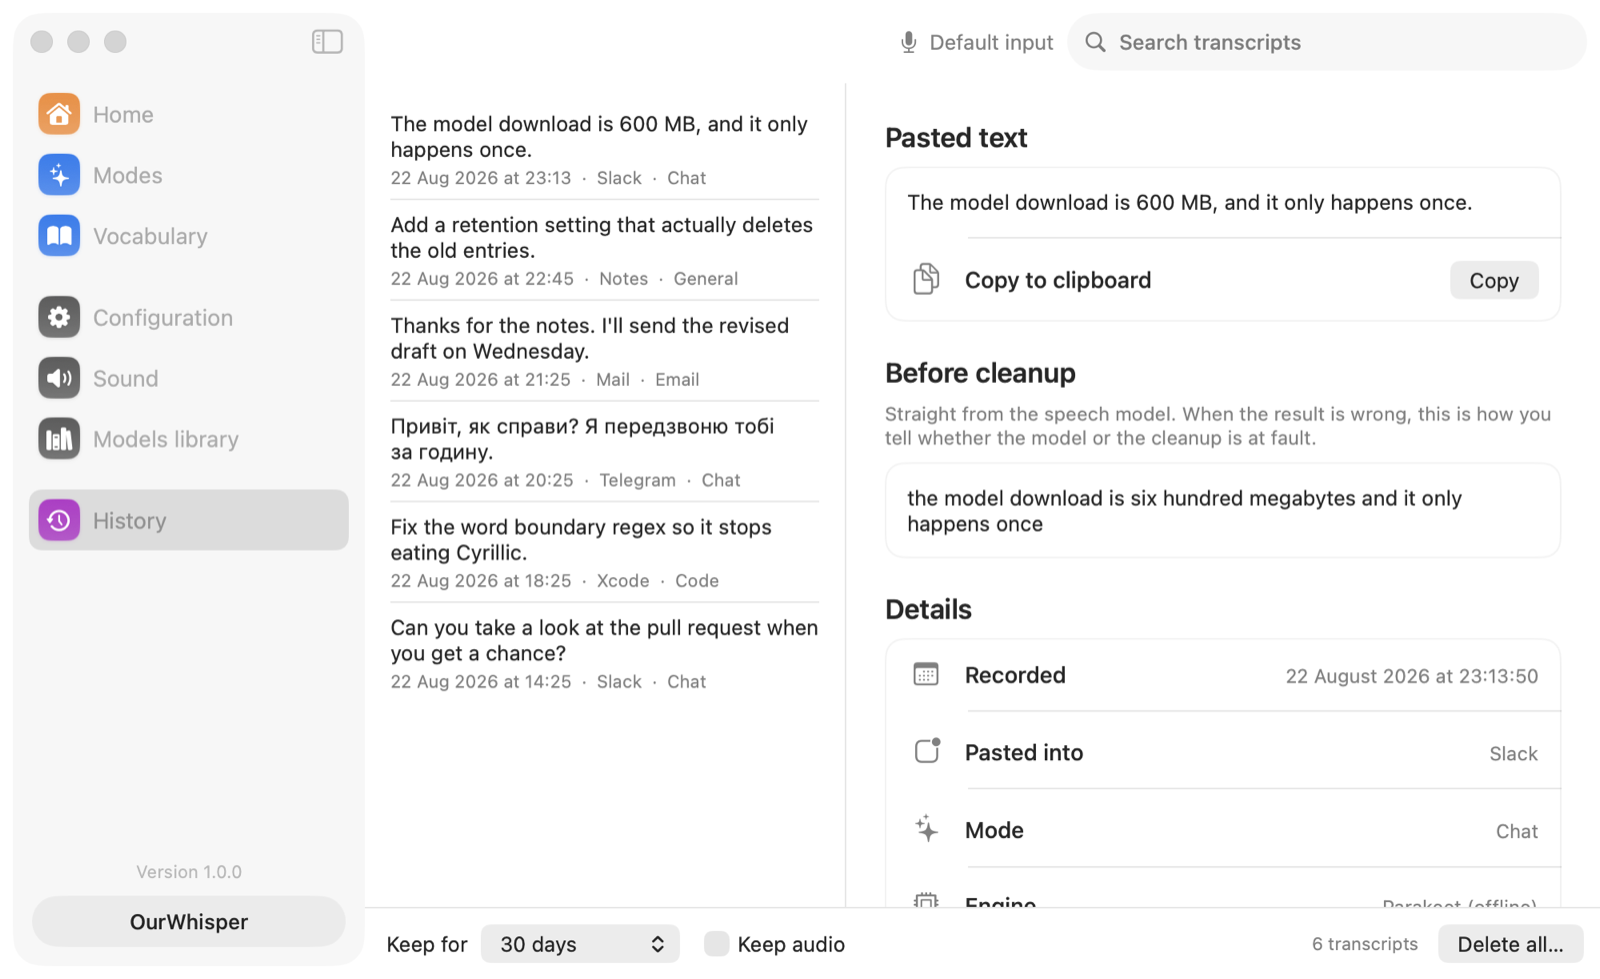
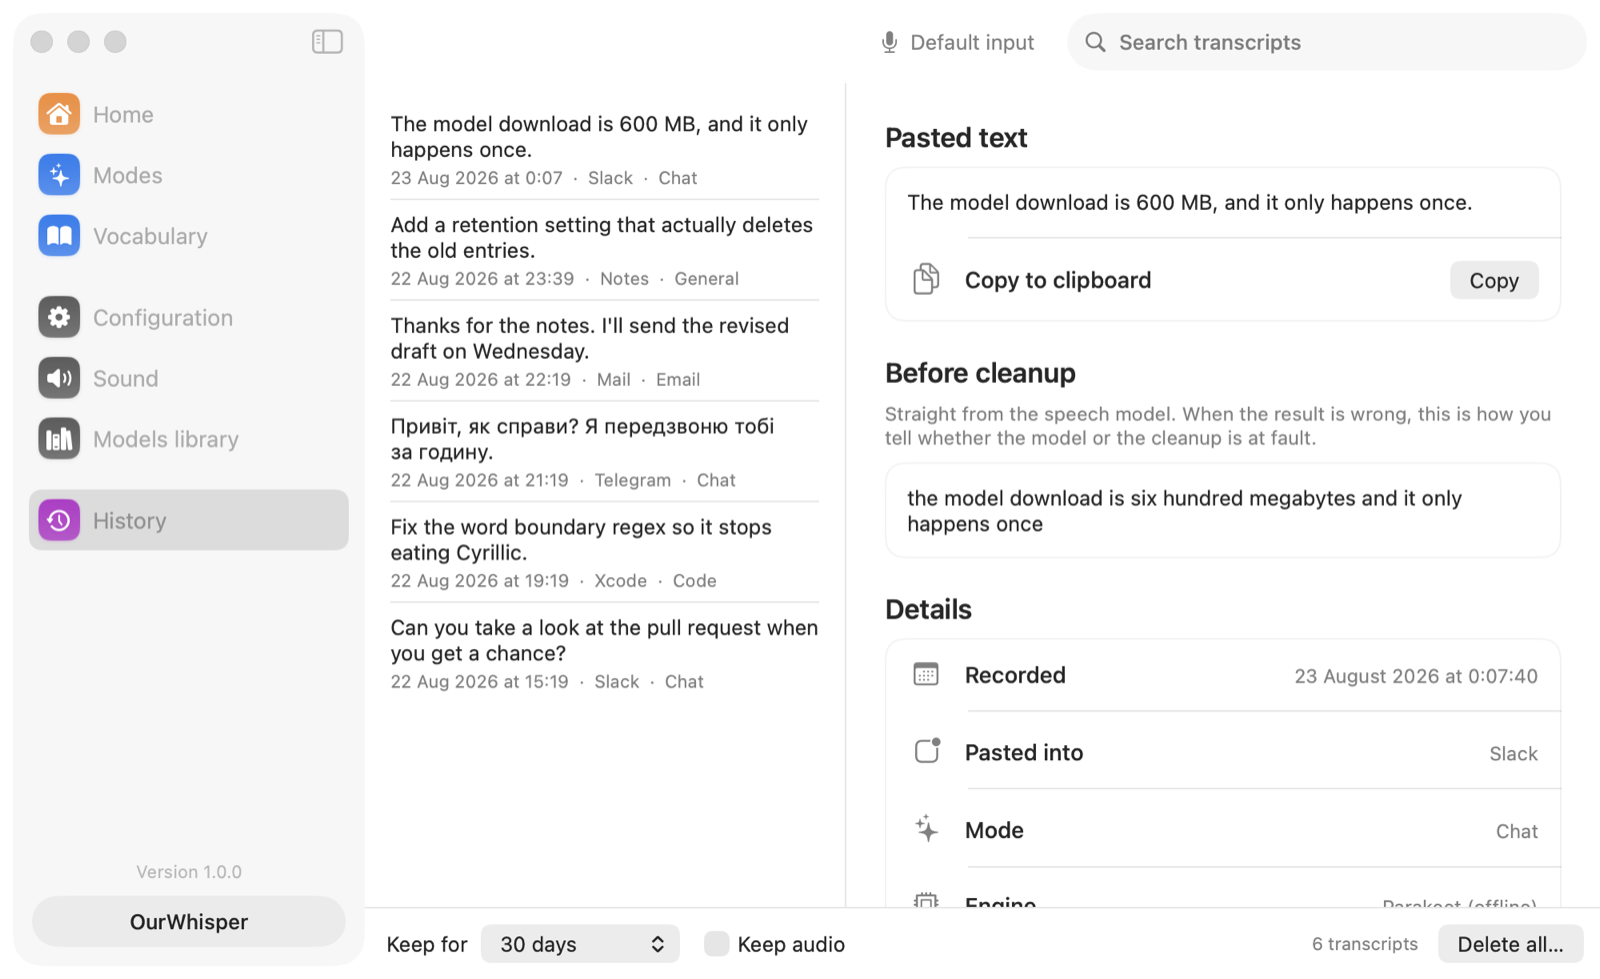
Hold the input device off the window's edge
A toolbar item at `.primaryAction` sits hard against the window edge,
and this one is a plain label with no button chrome to hold it off — so
the device name ended a few points from the corner. 12pt of trailing
inset, which is roughly what the glass background would have given it.

docs/images redrawn for the same reason as last time: every window shot
has that name in it.

diff --git a/Sources/UI/Shell/RootView.swift b/Sources/UI/Shell/RootView.swift
@@ -58,6 +58,10 @@ struct RootView: View {
         }
         .buttonStyle(.plain)
         .pointerStyle(.link)
+        // A toolbar item at `.primaryAction` sits hard against the window edge, and a plain label
+        // with no button chrome around it has nothing to hold it off. This is the inset the glass
+        // background would have given it.
+        .padding(.trailing, 12)
         .help("Dictation records from this microphone. Click to change it in Sound.")
     }
 
